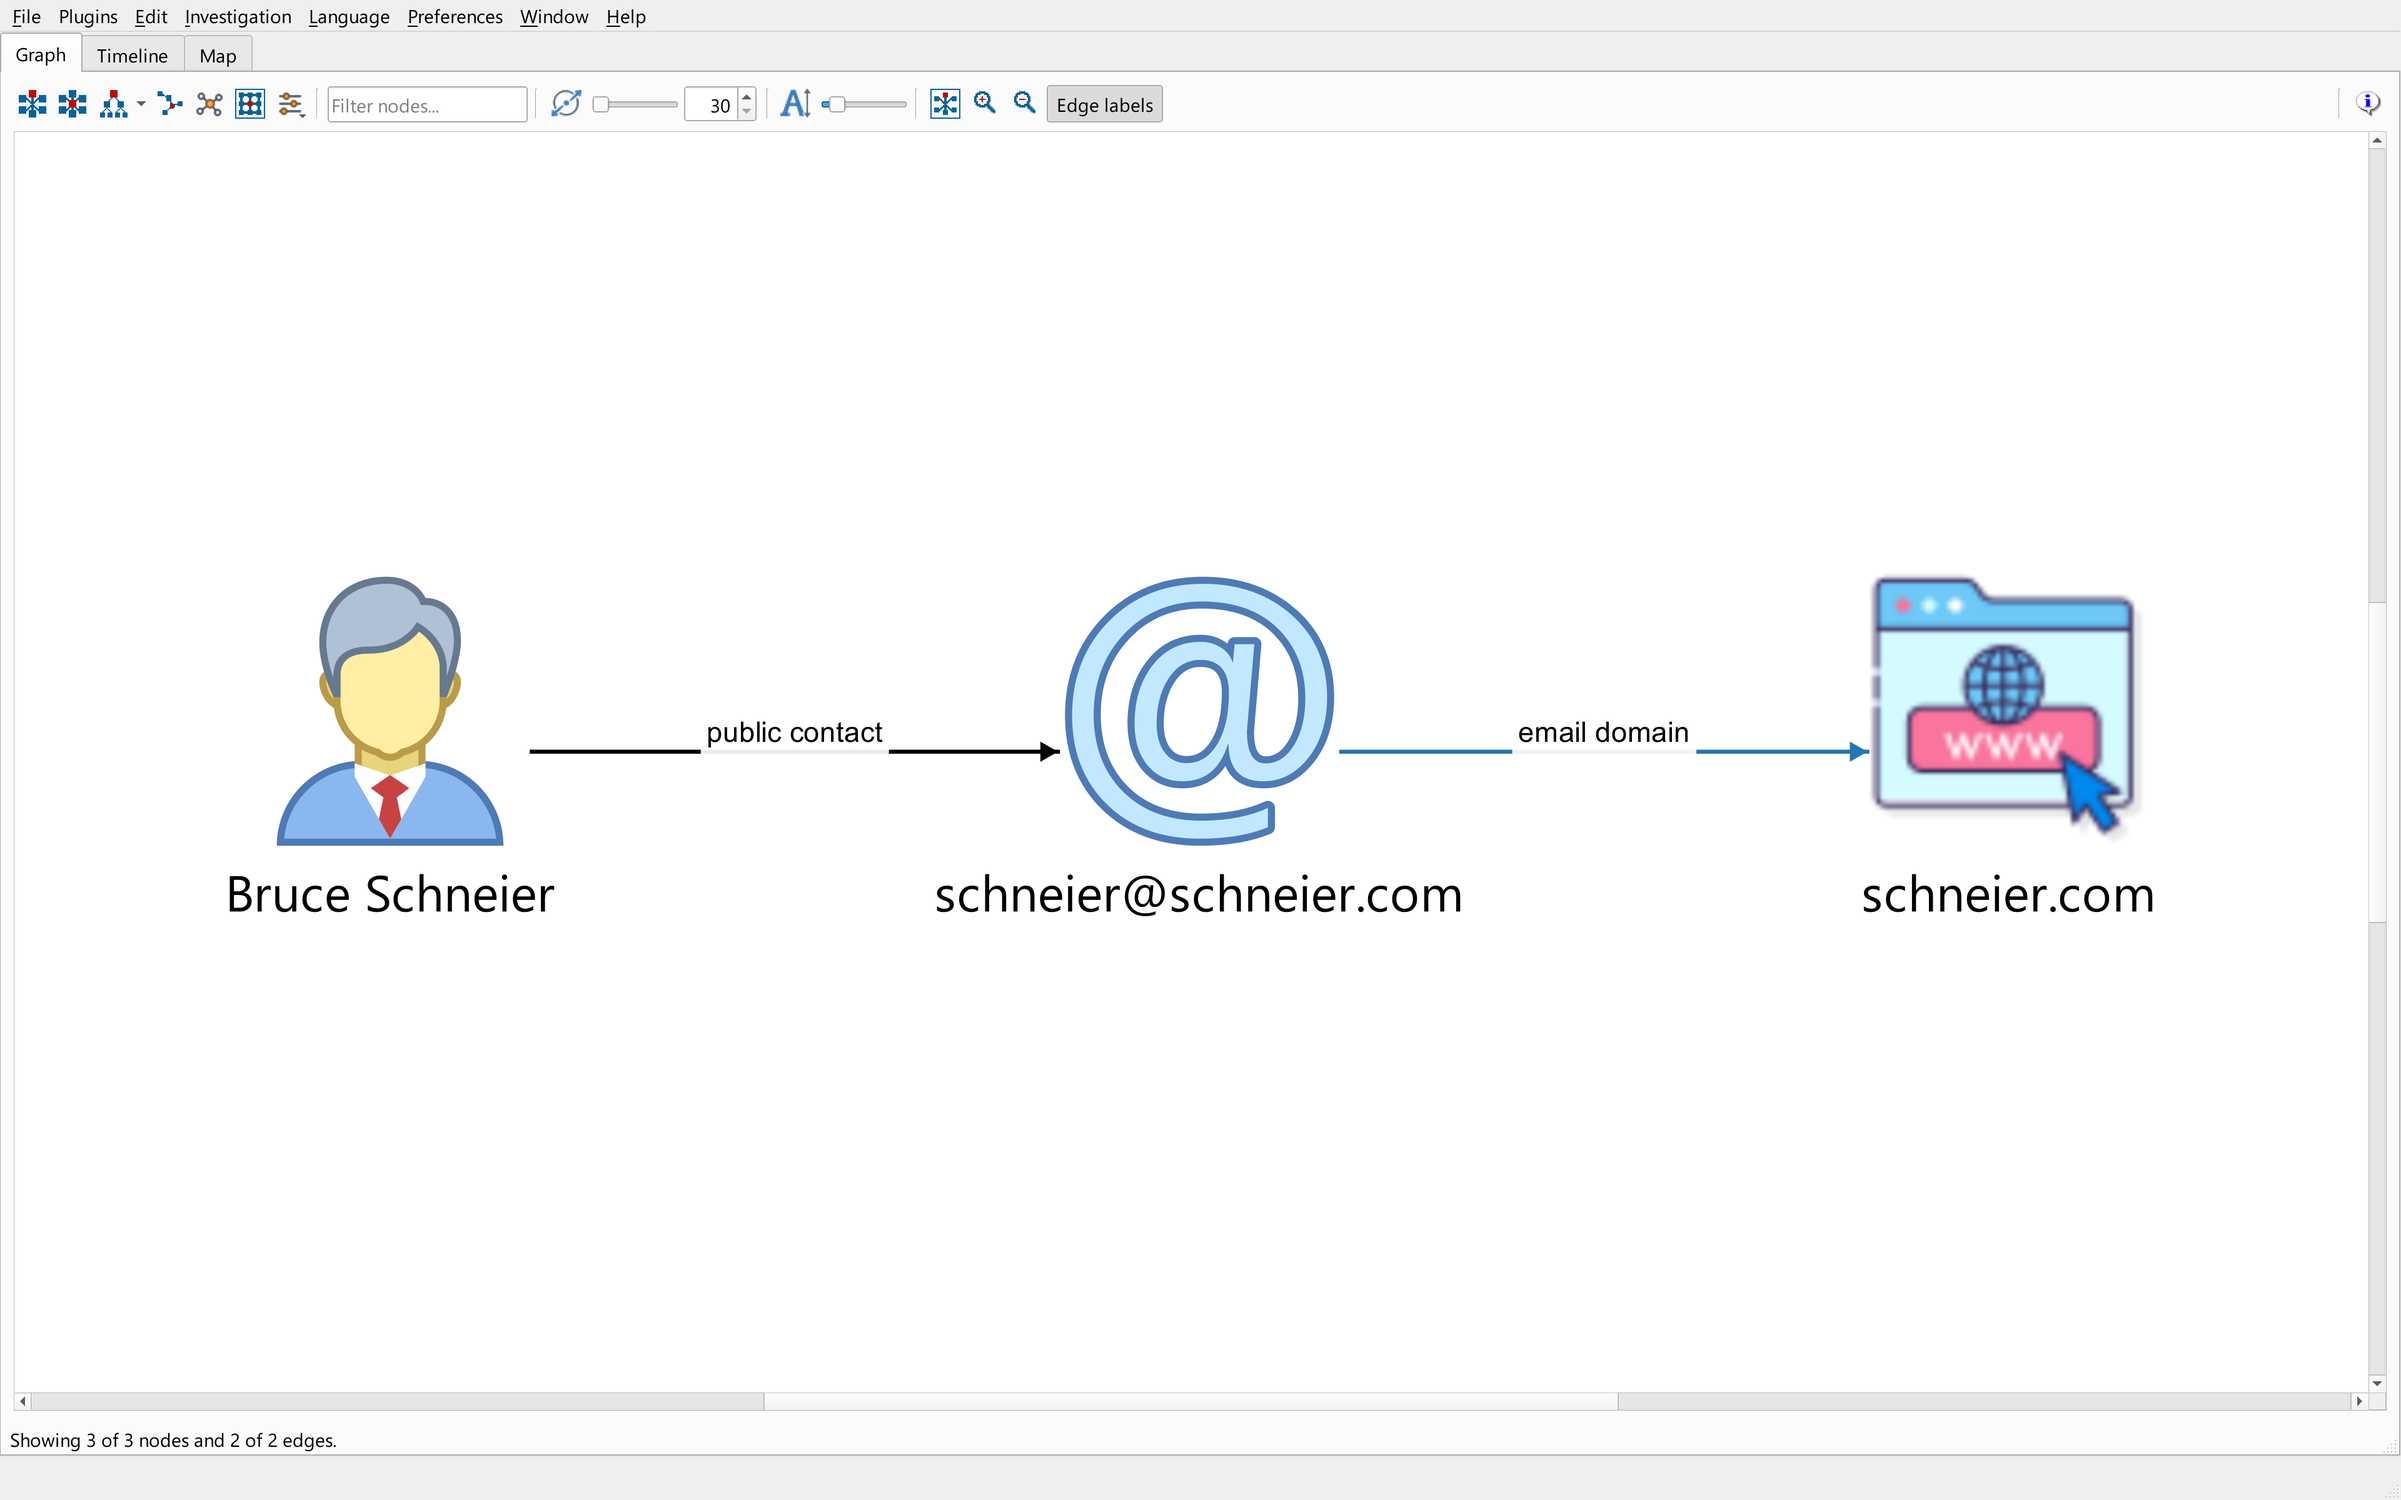
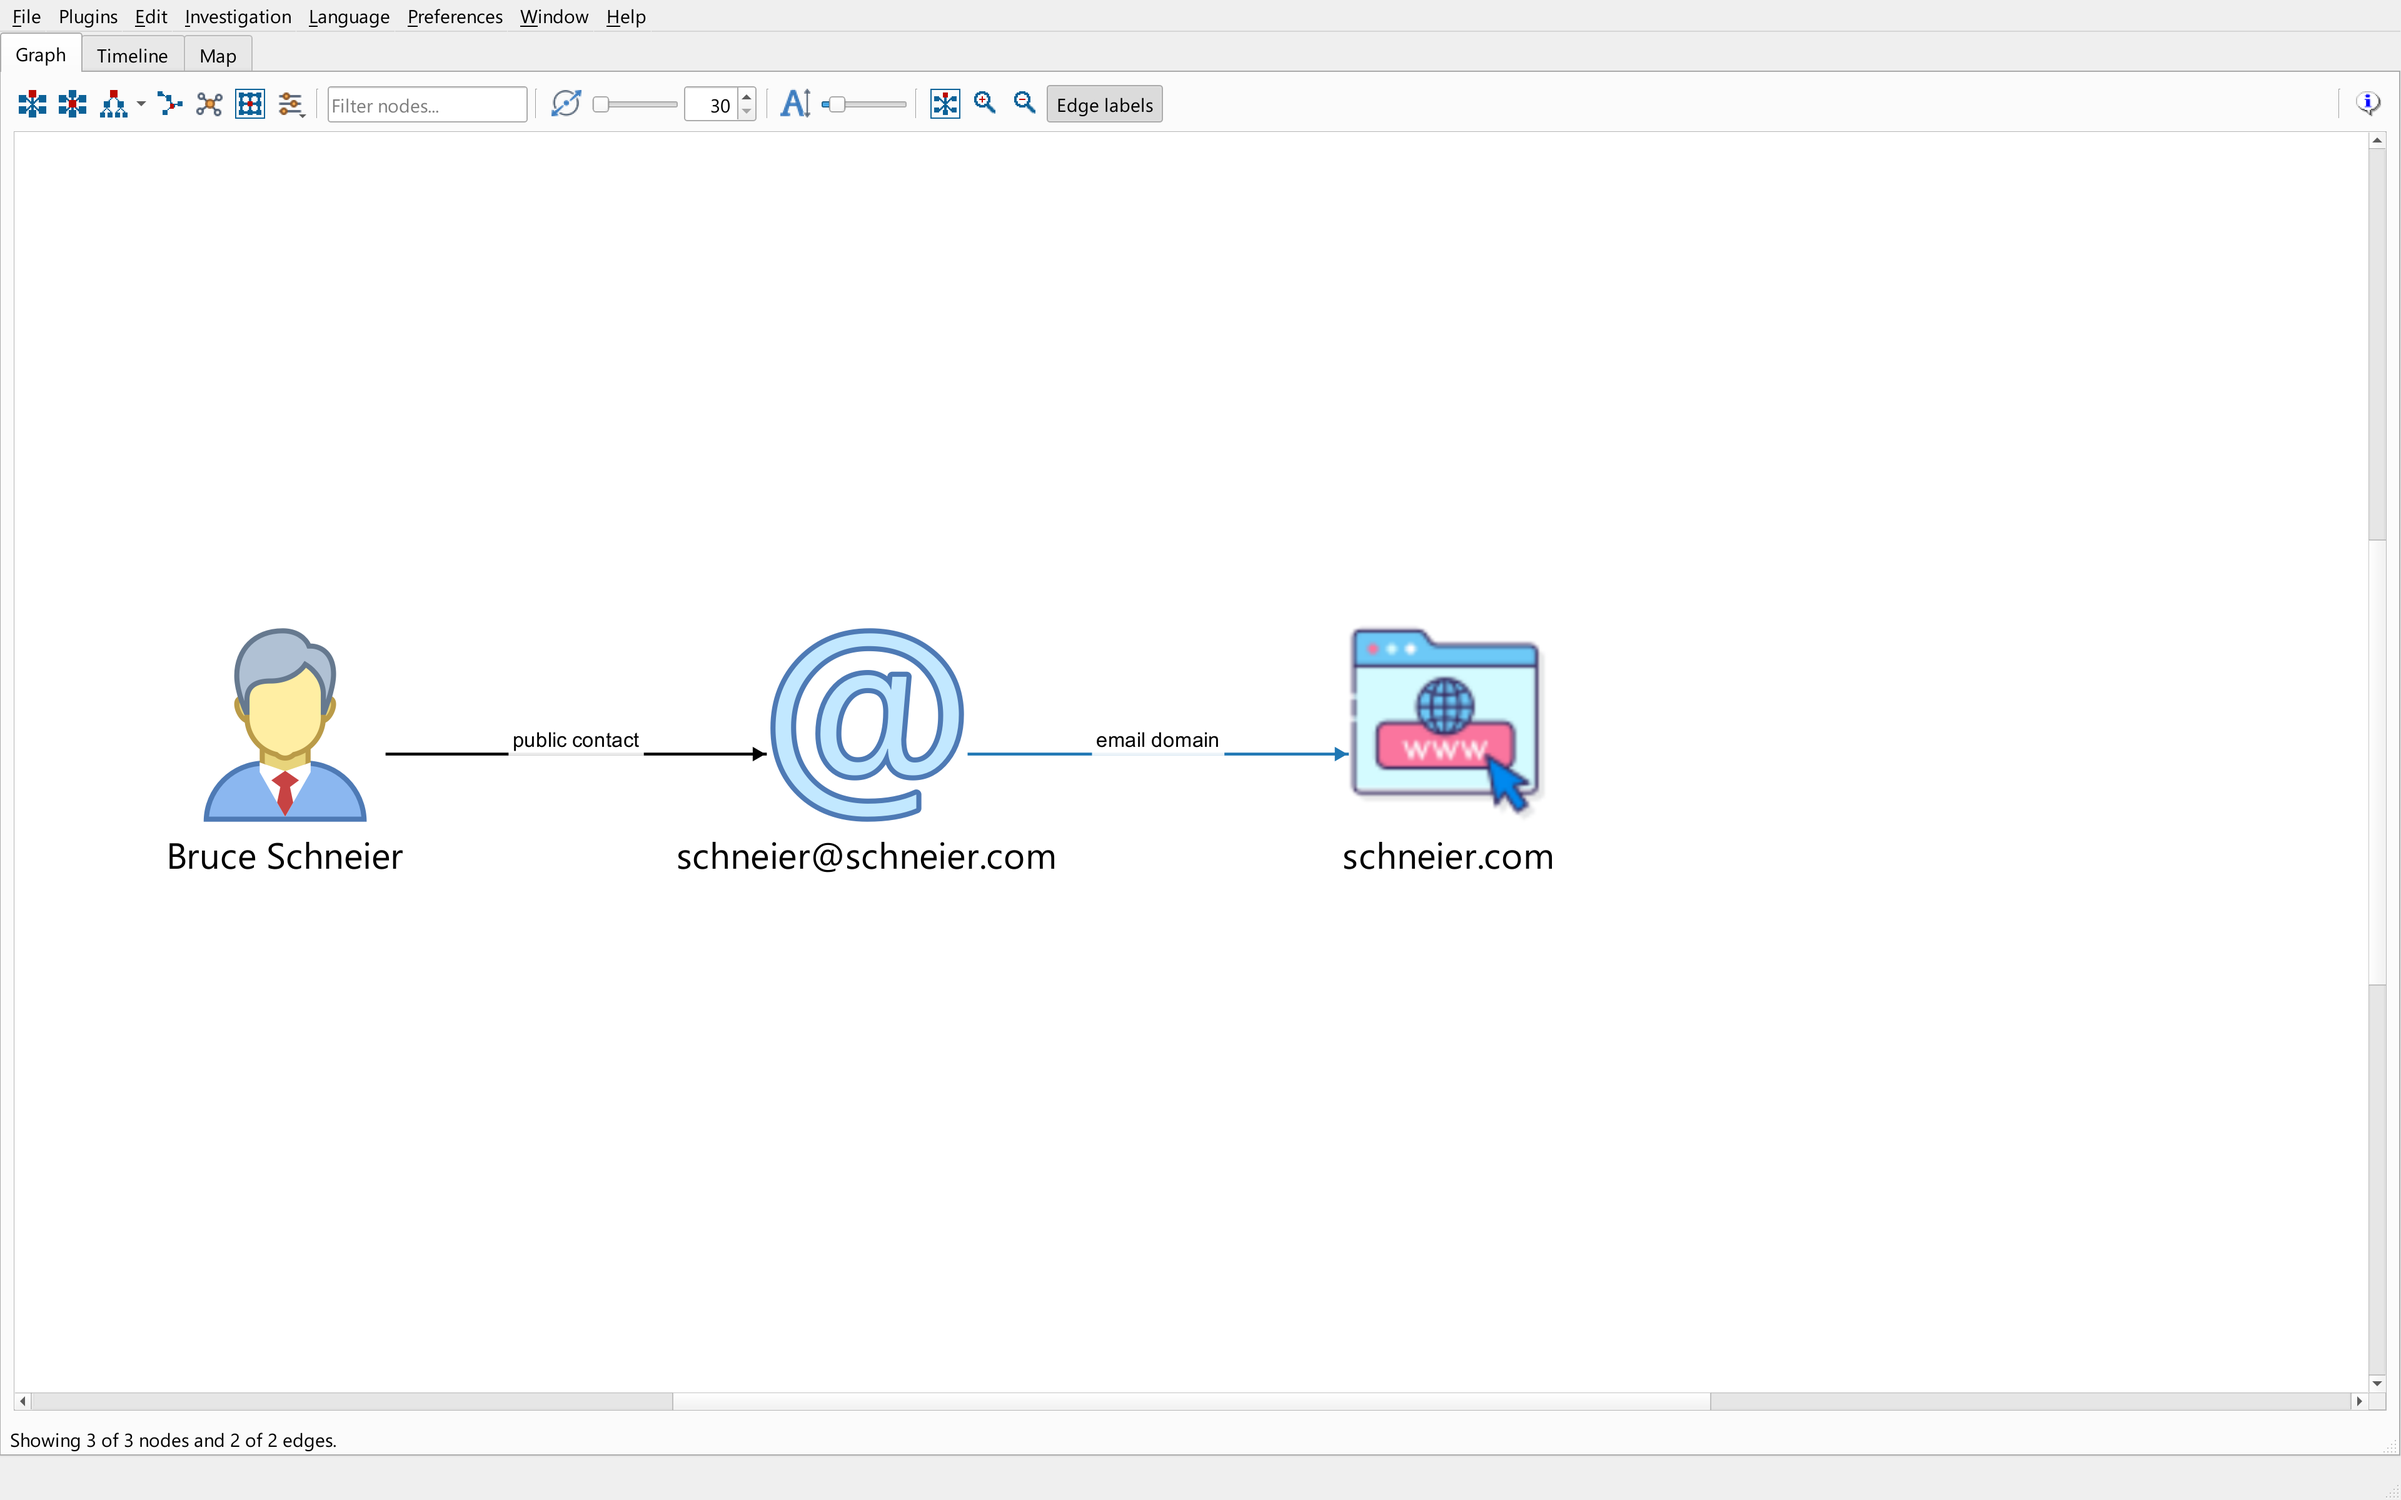
Rebuild transform animation with consistent application framing

diff --git a/app.js b/app.js
@@ -9,11 +9,11 @@ const slides = [
   },
   {
     "image": "feature-captures/02-transforms.png",
-    "animation": "transforms-lab.gif",
+    "animation": "transforms-lab-framed.gif",
     "title": "Expand information with transforms",
     "subtitle": "Person → email → domain",
     "alt": "Bruce Schneier linked to his public email and the extracted domain schneier.com.",
-    "note": "Follow a public contact email to its domain. The screenshot shows the saved email-to-domain example. The existing animation also includes a manually verified registrar record; that step is not an automated lookup."
+    "note": "Follow a public contact email to its domain. The screenshot shows the saved email-to-domain example. The animation also includes a manually verified registrar record; that step is not an automated lookup."
   },
   {
     "image": "feature-captures/03-photo-import-selection.png",
